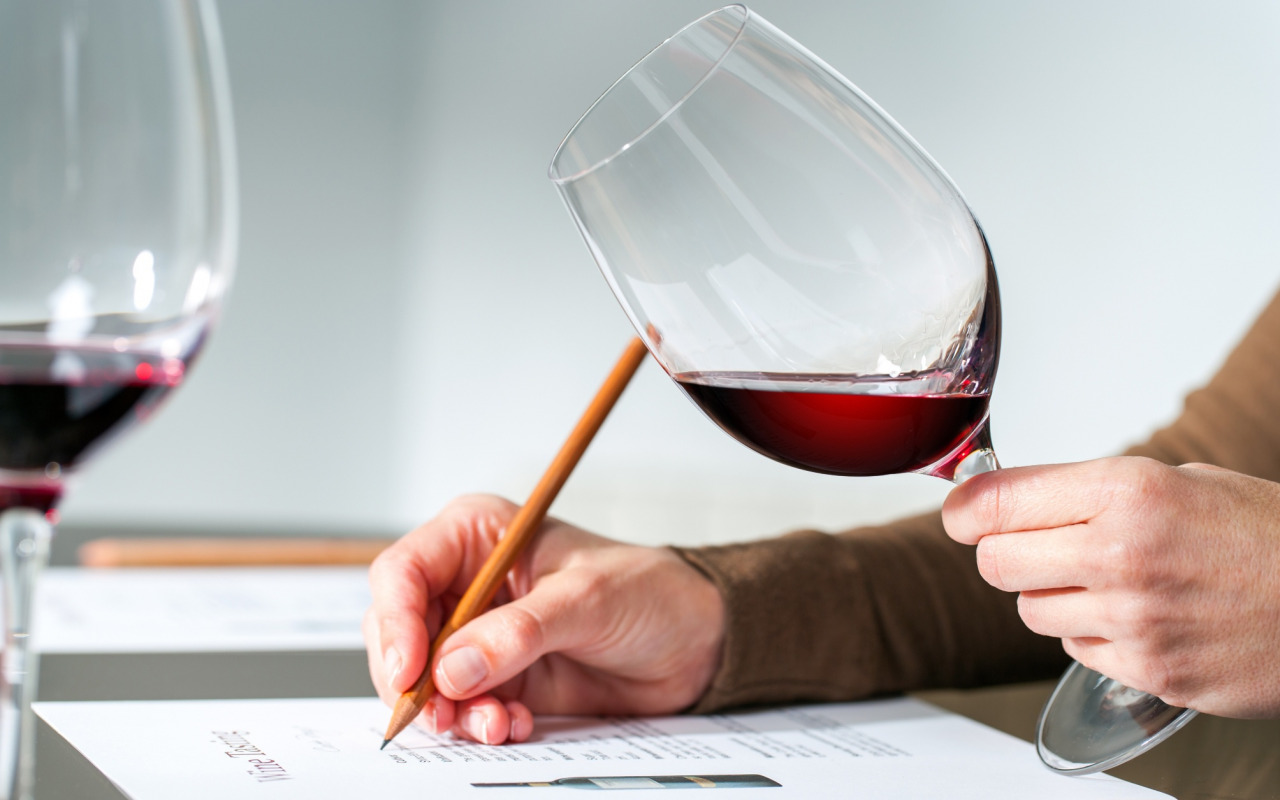
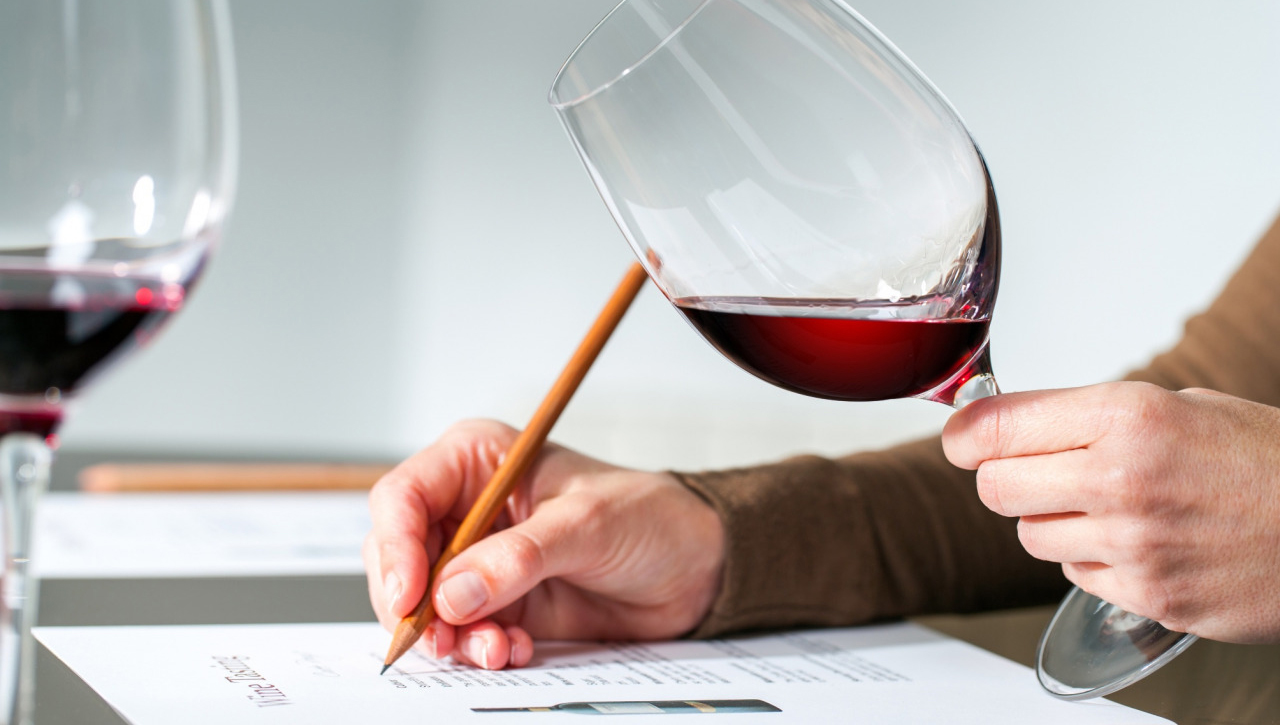
fix

diff --git a/resources/views/welcome.blade.php b/resources/views/welcome.blade.php
@@ -85,7 +85,7 @@
     <div class="pt-5">
         <div class="card-group">
             <div class="card border-0 rounded-0">
-                <img src="{{ asset('img/business-document-signing (2).jpg') }}" class="card-img rounded-0" alt="...">
+                <img src="{{ asset('img/evaluation-quality-control-wine-taster-wine-alcoholic-drink.jpg') }}" class="card-img rounded-0" alt="...">
                 <div class="backdrop"></div>
                 <div class="card-img-overlay p-0">
                     <div class="">
